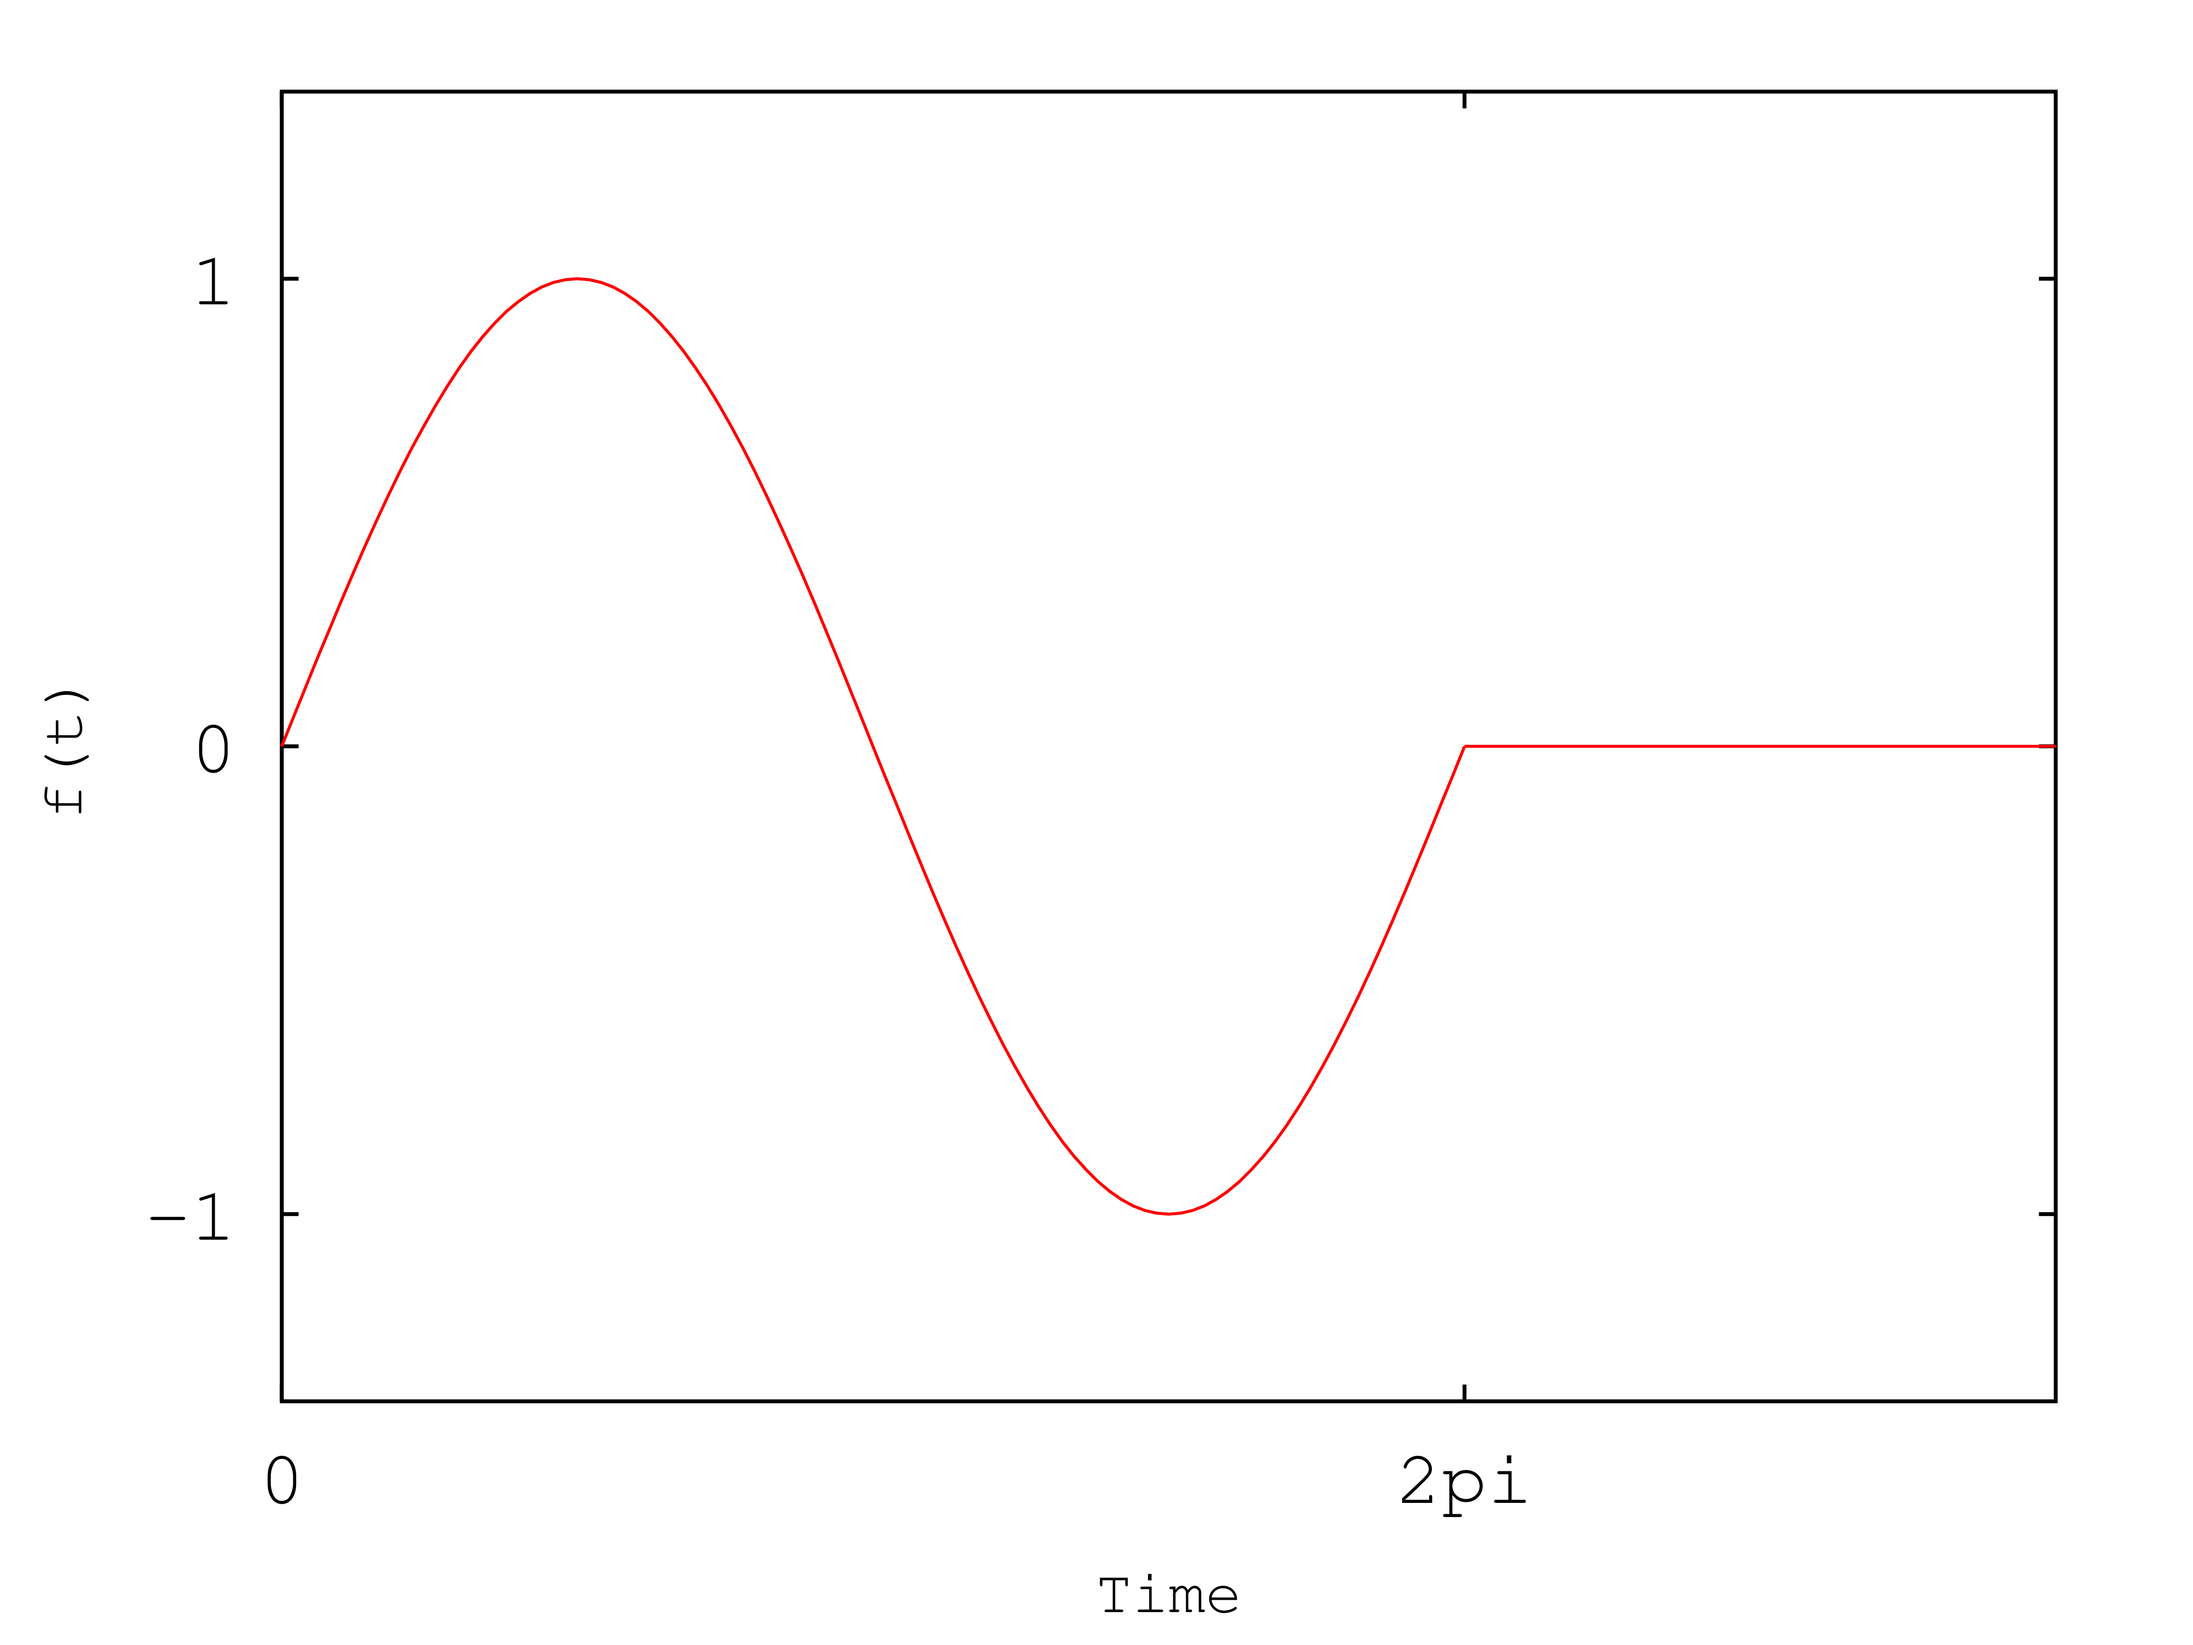
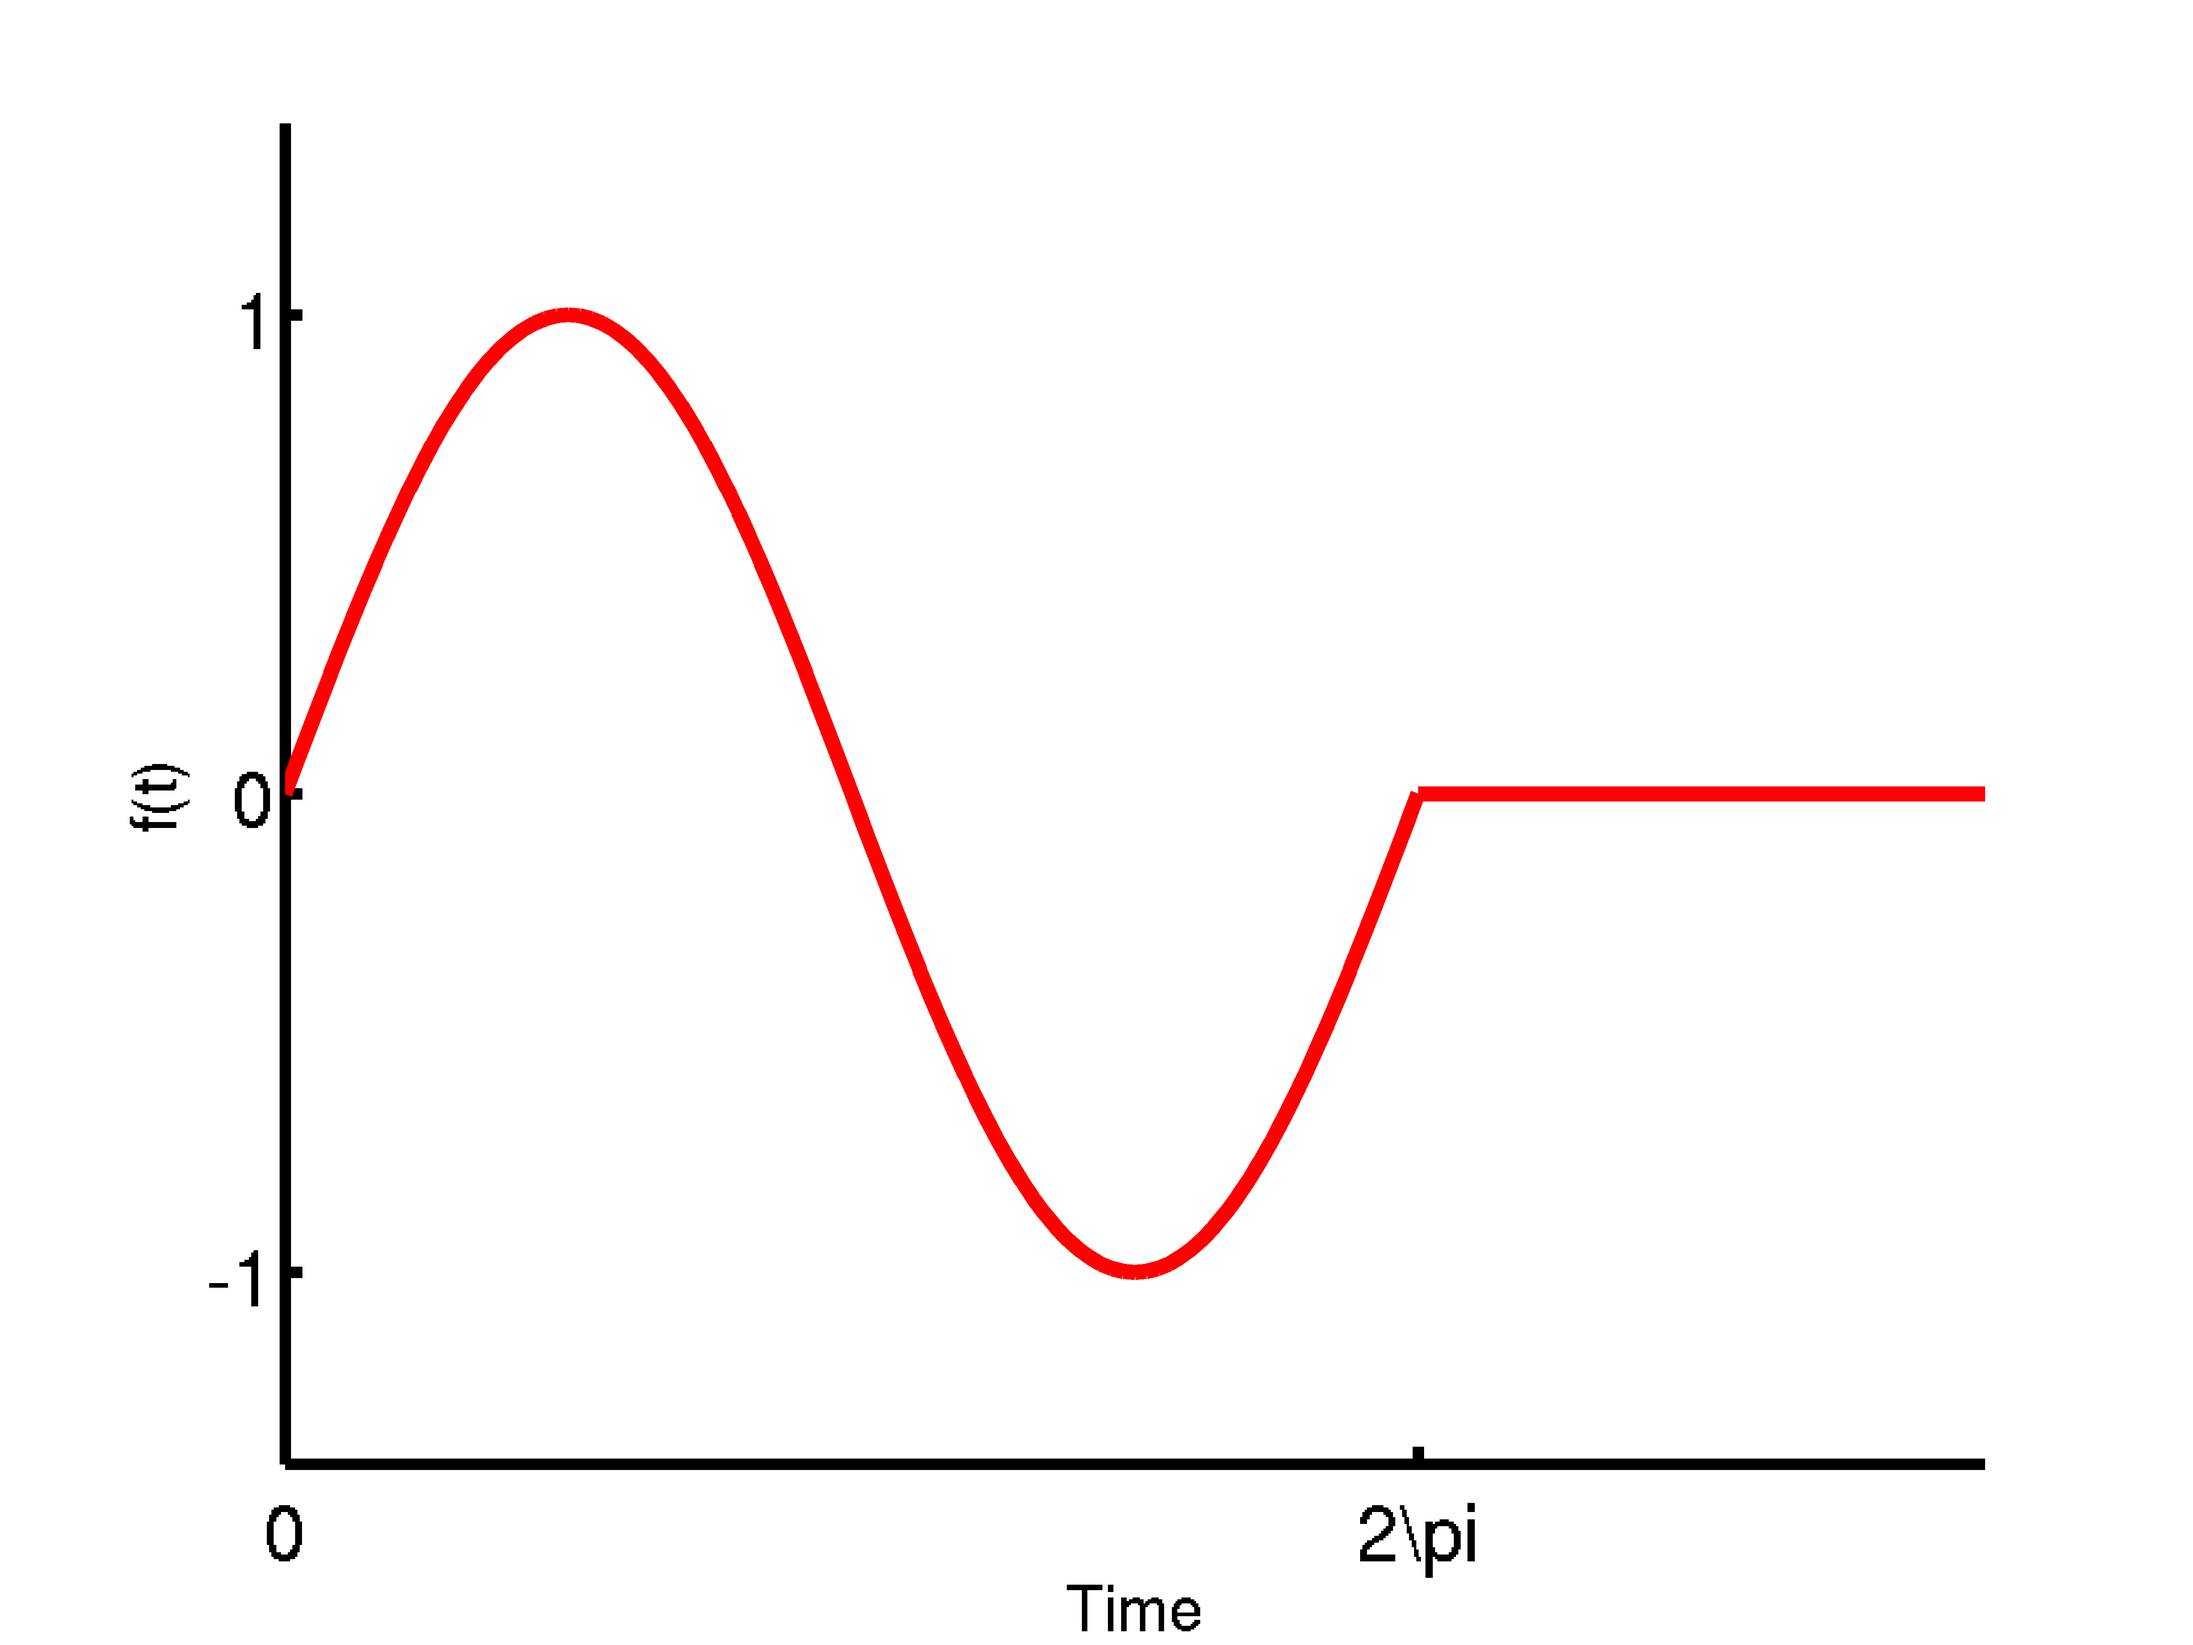
Changed the images to match the functions in the notes.

diff --git a/notes/m/step.m b/notes/m/step.m
@@ -2,17 +2,17 @@
 
 clf
 axis([-0.1 2,0 1])
-set(gca,'LineWidth',2.0);
+set(gca,'LineWidth',3.0);
 set(gca,'FontSize',14);
 xlabel('Time','FontSize',16);
 ylabel('f(t)','FontSize',16);
 title('Step Function');
 
 hold on
-plot([-.1 0.8],[0 0],'r','LineWidth',3.0);
-plot([0.8 2.0],[0.7 0.7],'r','LineWidth',3.0);
-a = plot(0.8,0.0,'ro','markersize',10,'LineWidth',3.0);
-a = plot(0.8,0.7,'r*','markersize',10,'LineWidth',3.0);
+plot([-.1 0.8],[0 0],'r','LineWidth',4.0);
+plot([0.8 2.0],[0.7 0.7],'r','LineWidth',4.0);
+a = plot(0.8,0.0,'ro','markersize',10,'LineWidth',4.0);
+a = plot(0.8,0.7,'r*','markersize',10,'LineWidth',4.0);
 
 set(gca,'XTickLabelMode','manual')
 set(gca,'XTick',[0 0.8])
@@ -22,12 +22,12 @@ set(gca,'YTickLabelMode','manual')
 set(gca,'YTick',[0 0.7])
 set(gca,'YTickLabel',{'0';'1'})
 
-%print -dpng 'unitStepAta.png' '-r 600'
+print -dpng 'unitStepAta.png' '-r 600'
 
 
 clf
 axis([-3 5 0 1.2])
-set(gca,'LineWidth',2.0);
+set(gca,'LineWidth',3.0);
 set(gca,'FontSize',14);
 xlabel('Time','FontSize',16);
 ylabel('f(t)','FontSize',16);
@@ -36,23 +36,23 @@ title('Unshifted Function');
 hold on
 x = -3:0.01:5;
 y = exp(-x.*x*0.5);
-plot(x,y,'r','LineWidth',3.0);
+plot(x,y,'r','LineWidth',4.0);
 
 set(gca,'XTickLabelMode','manual')
 set(gca,'XTick',[0 1])
 set(gca,'XTickLabel',{'0';'a'})
 
 set(gca,'YTickLabelMode','manual')
-set(gca,'YTick',[0 0.0])
-set(gca,'YTickLabel',{' ';' '})
+set(gca,'YTick',[0])
+set(gca,'YTickLabel',{' '})
 
-%print -dpng 'unshifted.png' '-r 600'
+print -dpng 'unshifted.png' '-r 600'
 
 
 
 clf
 axis([-3 5 0 1.2])
-set(gca,'LineWidth',2.0);
+set(gca,'LineWidth',3.0);
 set(gca,'FontSize',14);
 xlabel('Time','FontSize',16);
 ylabel('f(t)','FontSize',16);
@@ -61,33 +61,33 @@ title('Unshifted Function');
 hold on
 x = -3:0.01:5;
 y = exp(-(x-1).*(x-1)*0.5);
-plot(x,y,'r','LineWidth',3.0);
-plot([1 1],[0 2],'k:')
+plot(x,y,'r','LineWidth',4.0);
+plot([1 1],[0 2],'k--')
 
 set(gca,'XTickLabelMode','manual')
 set(gca,'XTick',[0 1])
 set(gca,'XTickLabel',{'0';'a'})
 
 set(gca,'YTickLabelMode','manual')
-set(gca,'YTick',[0 0.0])
-set(gca,'YTickLabel',{' ';' '})
+set(gca,'YTick',[0])
+set(gca,'YTickLabel',{' '})
 
-%print -dpng 'shifted.png' '-r 600'
+print -dpng 'shifted.png' '-r 600'
 
 
 clf
 axis([-1 1,0 1.5])
-set(gca,'LineWidth',2.0);
+set(gca,'LineWidth',3.0);
 set(gca,'FontSize',20);
 xlabel('Time','FontSize',16);
 ylabel('f(t)','FontSize',16);
 title('Unit Step Function');
 
 hold on
-plot([-1 0],[0 0],'r','LineWidth',3.0);
-plot([0 1],[1 1],'r','LineWidth',3.0);
-a = plot(0.0,0.0,'ro','markersize',10,'LineWidth',3.0);
-a = plot(0.0,1.0,'r*','markersize',10,'LineWidth',3.0);
+plot([-1 0],[0 0],'r','LineWidth',4.0);
+plot([0 1],[1 1],'r','LineWidth',4.0);
+a = plot(0.0,0.0,'ro','markersize',10,'LineWidth',4.0);
+a = plot(0.0,1.0,'r*','markersize',10,'LineWidth',4.0);
 
 set(gca,'XTickLabelMode','manual')
 set(gca,'XTick',[0])
@@ -97,21 +97,21 @@ set(gca,'YTickLabelMode','manual')
 set(gca,'YTick',[0 1])
 set(gca,'YTickLabel',{'0';'1'})
 
-%print -dpng 'unitStepFunction.png' '-r 600'
+print -dpng 'unitStepFunction.png' '-r 600'
 
 
 clf
 axis([0 5 0 2.5])
-set(gca,'LineWidth',2.0);
+set(gca,'LineWidth',3.0);
 set(gca,'FontSize',20);
 xlabel('Time','FontSize',16);
 ylabel('f(t)','FontSize',16);
 
 hold on
-plot([0 3],[0 0],'r','LineWidth',3.0);
-plot([3 5],[2 2],'r','LineWidth',3.0);
-a = plot(3.0,0.0,'ro','markersize',10,'LineWidth',3.0);
-a = plot(3.0,2.0,'r*','markersize',10,'LineWidth',3.0);
+plot([0 3],[0 0],'r','LineWidth',4.0);
+plot([3 5],[2 2],'r','LineWidth',4.0);
+a = plot(3.0,0.0,'ro','markersize',10,'LineWidth',4.0);
+a = plot(3.0,2.0,'r*','markersize',10,'LineWidth',4.0);
 
 set(gca,'XTickLabelMode','manual')
 set(gca,'XTick',[0 3])
@@ -121,24 +121,24 @@ set(gca,'YTickLabelMode','manual')
 set(gca,'YTick',[0 2])
 set(gca,'YTickLabel',{'0';'2'})
 
-%print -dpng 'stepEx1.png' '-r 600'
+print -dpng 'stepEx1.png' '-r 600'
 
 
 clf
 axis([0 5 0 2.5])
-set(gca,'LineWidth',2.0);
+set(gca,'LineWidth',3.0);
 set(gca,'FontSize',20);
 xlabel('Time','FontSize',16);
 ylabel('f(t)','FontSize',16);
 
 hold on
-plot([0 1],[0 0],'r','LineWidth',3.0);
-plot([1 3],[2 2],'r','LineWidth',3.0);
-plot([3 5],[0 0],'r','LineWidth',3.0);
-a = plot(1.0,0.0,'ro','markersize',10,'LineWidth',3.0);
-a = plot(1.0,2.0,'r*','markersize',10,'LineWidth',3.0);
-a = plot(3.0,2.0,'ro','markersize',10,'LineWidth',3.0);
-a = plot(3.0,0.0,'r*','markersize',10,'LineWidth',3.0);
+plot([0 1],[0 0],'r','LineWidth',4.0);
+plot([1 3],[2 2],'r','LineWidth',4.0);
+plot([3 5],[0 0],'r','LineWidth',4.0);
+a = plot(1.0,0.0,'ro','markersize',10,'LineWidth',4.0);
+a = plot(1.0,2.0,'r*','markersize',10,'LineWidth',4.0);
+a = plot(3.0,2.0,'ro','markersize',10,'LineWidth',4.0);
+a = plot(3.0,0.0,'r*','markersize',10,'LineWidth',4.0);
 
 set(gca,'XTickLabelMode','manual')
 set(gca,'XTick',[0 1 3])
@@ -148,42 +148,48 @@ set(gca,'YTickLabelMode','manual')
 set(gca,'YTick',[0 2])
 set(gca,'YTickLabel',{'0';'2'})
 
-%print -dpng 'stepEx2.png' '-r 600'
+print -dpng 'stepEx2.png' '-r 600'
 
 
 clf
-axis([0 5 0 2.5])
-set(gca,'LineWidth',2.0);
+axis([0 5 -1.5 1.5])
+set(gca,'LineWidth',3.0);
 set(gca,'FontSize',20);
 xlabel('Time','FontSize',16);
 ylabel('f(t)','FontSize',16);
 
 hold on
-plot([0 3],[0 0],'r','LineWidth',3.0);
-plot([3 5],[0 2],'r','LineWidth',3.0);
+plot([0 1],[0 0],'r','LineWidth',4.0);
+plot([1 3],[-1 1],'r','LineWidth',4.0);
+plot([3 5],[0 0],'r','LineWidth',4.0);
+a = plot(1.0,0.0,'ro','markersize',10,'LineWidth',4.0);
+a = plot(1.0,-1.0,'r*','markersize',10,'LineWidth',4.0);
+a = plot(3.0,1.0,'ro','markersize',10,'LineWidth',4.0);
+a = plot(3.0,0.0,'r*','markersize',10,'LineWidth',4.0);
+
 
 set(gca,'XTickLabelMode','manual')
-set(gca,'XTick',[0 3])
-set(gca,'XTickLabel',{'0','3'},'FontSize',20)
+set(gca,'XTick',[0 1 3])
+set(gca,'XTickLabel',{'0';'1';'3'},'FontSize',20)
 
 set(gca,'YTickLabelMode','manual')
-set(gca,'YTick',[0 2])
-set(gca,'YTickLabel',{'0';'2'})
+set(gca,'YTick',[-1 0 1])
+set(gca,'YTickLabel',{'-1';'0';'1'})
 
-%print -dpng 'stepEx3.png' '-r 600'
+print -dpng 'stepEx3.png' '-r 600'
 
 
 clf
 axis([0 7 0 5])
-set(gca,'LineWidth',2.0);
+set(gca,'LineWidth',3.0);
 set(gca,'FontSize',20);
 xlabel('Time','FontSize',16);
 ylabel('f(t)','FontSize',16);
 
 hold on
-plot([0 3],[0 0],'r','LineWidth',3.0);
-plot([3 5],[0 4],'r','LineWidth',3.0);
-plot([5 7],[4 4],'r','LineWidth',3.0);
+plot([0 3],[0 0],'r','LineWidth',4.0);
+plot([3 5],[0 4],'r','LineWidth',4.0);
+plot([5 7],[4 4],'r','LineWidth',4.0);
 
 set(gca,'XTickLabelMode','manual')
 set(gca,'XTick',[0 3 5])
@@ -193,20 +199,20 @@ set(gca,'YTickLabelMode','manual')
 set(gca,'YTick',[0 4])
 set(gca,'YTickLabel',{'0';'4'})
 
-%print -dpng 'stepEx4.png' '-r 600'
+print -dpng 'stepEx4.png' '-r 600'
 
 
 clf
 axis([0 3*pi -1.4 1.4])
-set(gca,'LineWidth',2.0);
+set(gca,'LineWidth',3.0);
 set(gca,'FontSize',20);
 xlabel('Time','FontSize',16);
 ylabel('f(t)','FontSize',16);
 
 hold on
 x = 0:pi/50:2*pi;
-plot(x,sin(x),'r','LineWidth',3.0);
-plot([2*pi 3*pi],[0 0],'r','LineWidth',3.0);
+plot(x,sin(x),'r','LineWidth',4.0);
+plot([2*pi 3*pi],[0 0],'r','LineWidth',4.0);
 
 set(gca,'XTickLabelMode','manual')
 set(gca,'XTick',[0 2*pi])
@@ -216,24 +222,24 @@ set(gca,'YTickLabelMode','manual')
 set(gca,'YTick',[-1 0 1])
 set(gca,'YTickLabel',{'-1';'0';'1'})
 
-%print -dpng 'stepEx5.png' '-r 600'
+print -dpng 'stepEx5.png' '-r 600'
 
 
 
 clf
 axis([0 9 0 7])
-set(gca,'LineWidth',2.0);
+set(gca,'LineWidth',3.0);
 set(gca,'FontSize',20);
 xlabel('Time','FontSize',16);
 ylabel('f(t)','FontSize',16);
 
 hold on
 x = 6:0.01:9;
-plot([0 5],[4 4],'r','LineWidth',3.0);
-plot([5 6],[0 0],'r','LineWidth',3.0);
-plot(x,7-7*exp(-(x-6)),'r','LineWidth',3.0);
-a = plot(5.0,4.0,'ro','markersize',10,'LineWidth',3.0);
-a = plot(5.0,0.0,'r*','markersize',10,'LineWidth',3.0);
+plot([0 5],[4 4],'r','LineWidth',4.0);
+plot([5 6],[0 0],'r','LineWidth',4.0);
+plot(x,7-7*exp(-(x-6)),'r','LineWidth',4.0);
+a = plot(5.0,4.0,'ro','markersize',10,'LineWidth',4.0);
+a = plot(5.0,0.0,'r*','markersize',10,'LineWidth',4.0);
 
 
 set(gca,'XTickLabelMode','manual')
@@ -244,4 +250,4 @@ set(gca,'YTickLabelMode','manual')
 set(gca,'YTick',[0 7])
 set(gca,'YTickLabel',{'0';'7'})
 
-%print -dpng 'stepEx6.png' '-r 600'
+print -dpng 'stepEx6.png' '-r 600'

diff --git a/notes/unitStepFunction.tex b/notes/unitStepFunction.tex
@@ -20,7 +20,27 @@
 
 
 \begin{frame}
+  \frametitle{Wouldn't it be nice....}
+
+  \centerline{\includegraphics[width=5cm]{img/unitStepAta}}
+
+  \uncover<2->
+  {%
+
+    Despite what you may have heard, nature is not continuous, and it
+    is not differentiable.  In mechanican systems switches flip on and
+    off, and things break. A function like this could be used to
+    describe piecewise defined functions and help us deal with
+    discontinuous functions. (We will see how later.)
+
+  }
+
+\end{frame}
+
+\begin{frame}
   \frametitle{The Unit Step Function}
+
+  \centerline{\includegraphics[width=5cm]{img/unshifted}}
 
   A new name for an old function:
   \begin{eqnarray*}
@@ -53,6 +73,8 @@
 \begin{frame}
   \frametitle{Shifted Version}
 
+  \centerline{\includegraphics[width=5cm]{img/shifted}}
+
     The function shifted $a$ units to the right is
     \begin{eqnarray*}
       \mathrm{step}(t-a) & = & 
@@ -71,6 +93,8 @@
 
 \begin{frame}
   \frametitle{So What?}
+
+  \centerline{\includegraphics[width=5cm]{img/stepEx1}}
 
   \begin{eqnarray*}
       f(t) & = & 
@@ -95,6 +119,8 @@
 \begin{frame}
   \frametitle{A little bit harder now}
 
+  \centerline{\includegraphics[width=5cm]{img/stepEx2}}
+
   \begin{eqnarray*}
       f(t) & = & 
       \left\{
@@ -117,6 +143,8 @@
 \begin{frame}
   \frametitle{A little bit harder now}
 
+  \centerline{\includegraphics[width=5cm]{img/stepEx3}}
+
   \begin{eqnarray*}
       f(t) & = & 
       \left\{
@@ -138,6 +166,8 @@
 
 \begin{frame}
   \frametitle{A little bit harder now}
+
+  \centerline{\includegraphics[width=5cm]{img/stepEx4}}
 
   \begin{eqnarray*}
       f(t) & = & 
@@ -164,6 +194,8 @@
 
 \begin{frame}
   \frametitle{A little bit harder now}
+
+  \centerline{\includegraphics[width=5cm]{img/stepEx5}}
 
   \begin{eqnarray*}
       f(t) & = & 
@@ -198,6 +230,8 @@
 
 \begin{frame}
   \frametitle{A little bit harder now}
+
+  \centerline{\includegraphics[width=5cm]{img/stepEx6}}
 
   \begin{eqnarray*}
       f(t) & = & 

diff --git a/notes/DifferentialEquations.tex b/notes/DifferentialEquations.tex
@@ -26,7 +26,7 @@
 \input{latexDefinitions}
 
 %\includeonlylecture{The-Unit-Step-Function}
-\includeonly{solveDEsLaplaceTransforms}
+\includeonly{unitStepFunction}
 %test
 
 \newtoggle{clicker}
